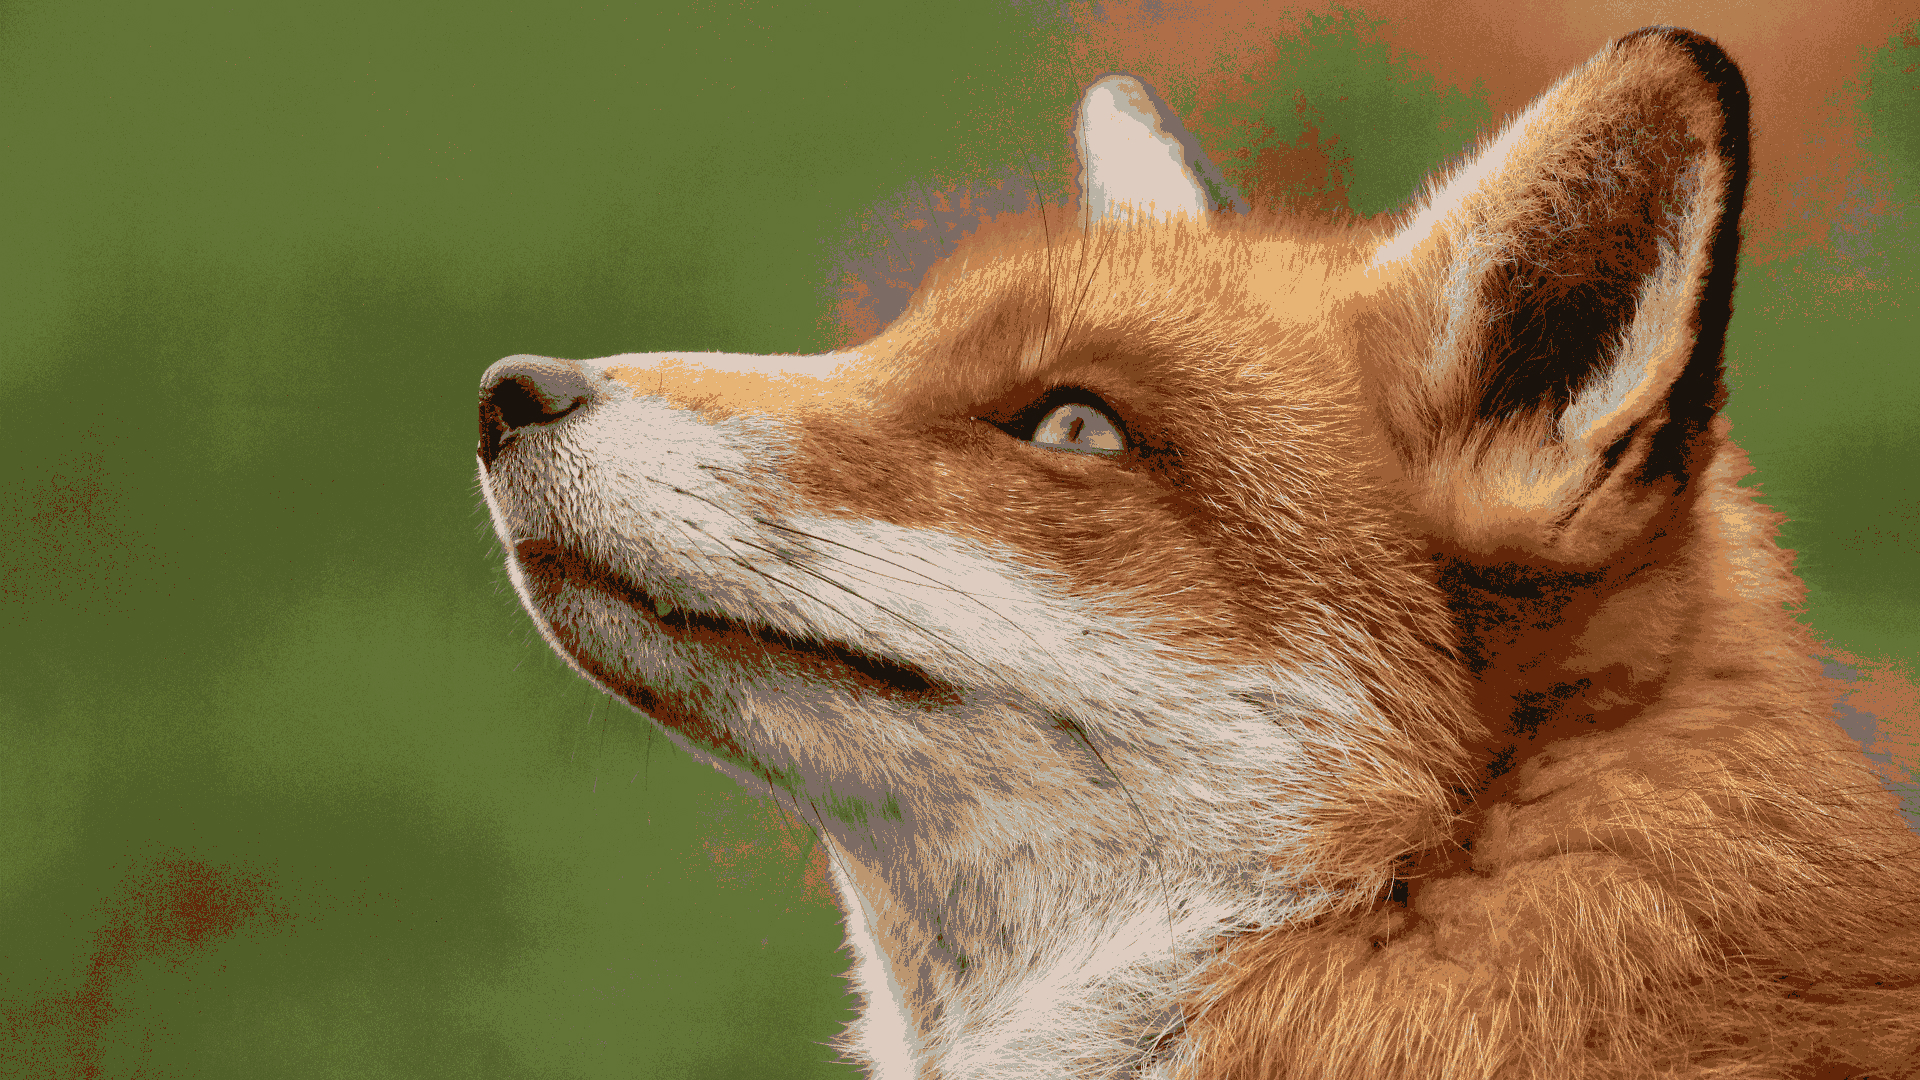
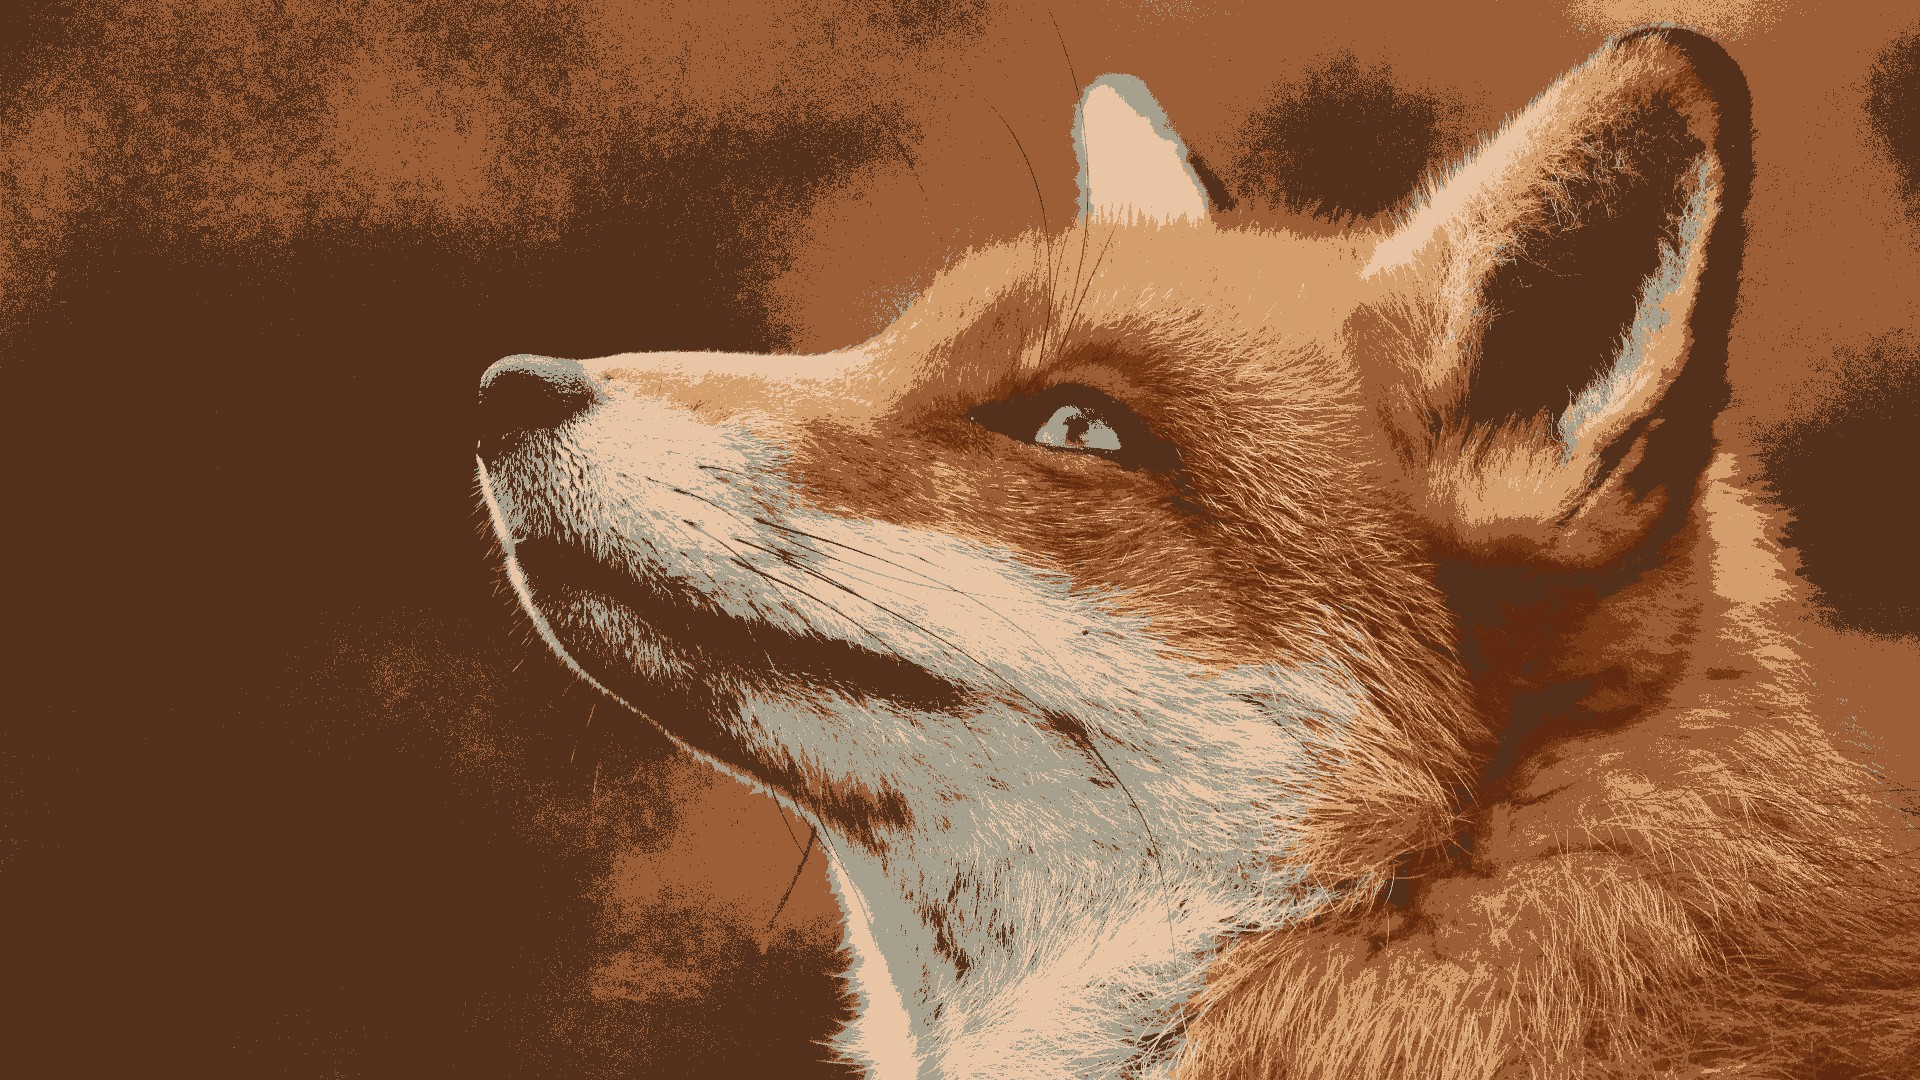
Resolved some bugs

diff --git a/src/main.cpp b/src/main.cpp
@@ -27,7 +27,7 @@
 #include "../vendor/stb/stb_image_write.h"
 
 struct __attribute__ ((packed)) Pixel {
-    uint8_t r, g, b, a;
+    uint8_t r, g, b;
 };
 
 struct Image 
@@ -85,7 +85,7 @@ Image* loadImage(const char* filePath)
         for (int y = 0; y < img->height; y++)
         {
             int offset = (x + img->width*y) * img->comps;
-            img->pixels[x + img->width*y] = {data[offset], data[offset+1], data[offset+2], 0xff};
+            img->pixels[x + img->width*y] = {data[offset], data[offset+1], data[offset+2]};
             //printf("[r: %x, g: %x, b: %x] => %x \n", data[offset], data[offset+1], data[offset+2], img->pixels[x * img->height + y]);
         } 
     }
@@ -101,7 +101,7 @@ void makeGray(Image* img, SDL_Renderer* renderer, SDL_Texture* texture)
         {
             Pixel p = img->pixels[x + img->width*y];
             uint8_t g = (p.r + p.g + p.b) / 3;
-            img->pixels[x + img->width*y] = {g, g, g, 0xff};
+            img->pixels[x + img->width*y] = {g, g, g};
         }
         img->updateTextureDisplay(renderer, texture);
     }   
@@ -187,13 +187,13 @@ int main()
     assert(SDL_Init(SDL_INIT_VIDEO) == 0);
     SDL_Window* window = SDL_CreateWindow( "", SDL_WINDOWPOS_UNDEFINED, SDL_WINDOWPOS_UNDEFINED, img->width, img->height, SDL_WINDOW_SHOWN );
     SDL_Renderer* renderer = SDL_CreateRenderer(window, -1, 0);
-    SDL_Texture* texture = SDL_CreateTexture(renderer, SDL_PIXELFORMAT_RGBA32, SDL_TEXTUREACCESS_STREAMING, img->width, img->height);
+    SDL_Texture* texture = SDL_CreateTexture(renderer, SDL_PIXELFORMAT_RGB24, SDL_TEXTUREACCESS_STREAMING, img->width, img->height);
     
     SDL_Event event;
     bool done = false;
     
-    int numOfClusters = 100;
-    int numOfIterations = 10;
+    int numOfClusters = 10;
+    int numOfIterations = 50;
     while (SDL_PollEvent(&event) || !done)
     {
         switch (event.type)
@@ -217,7 +217,7 @@ int main()
     SDL_DestroyTexture(texture);
     SDL_DestroyWindow(window);
     
-    stbi_write_jpg("assets/fox_after.jpg", img->width, img->height, 4, img->pixels, img->pitch);
+    stbi_write_jpg("assets/fox_after.jpg", img->width, img->height, 3, img->pixels, 0);
     
     delete[] img->pixels;
     delete img;
